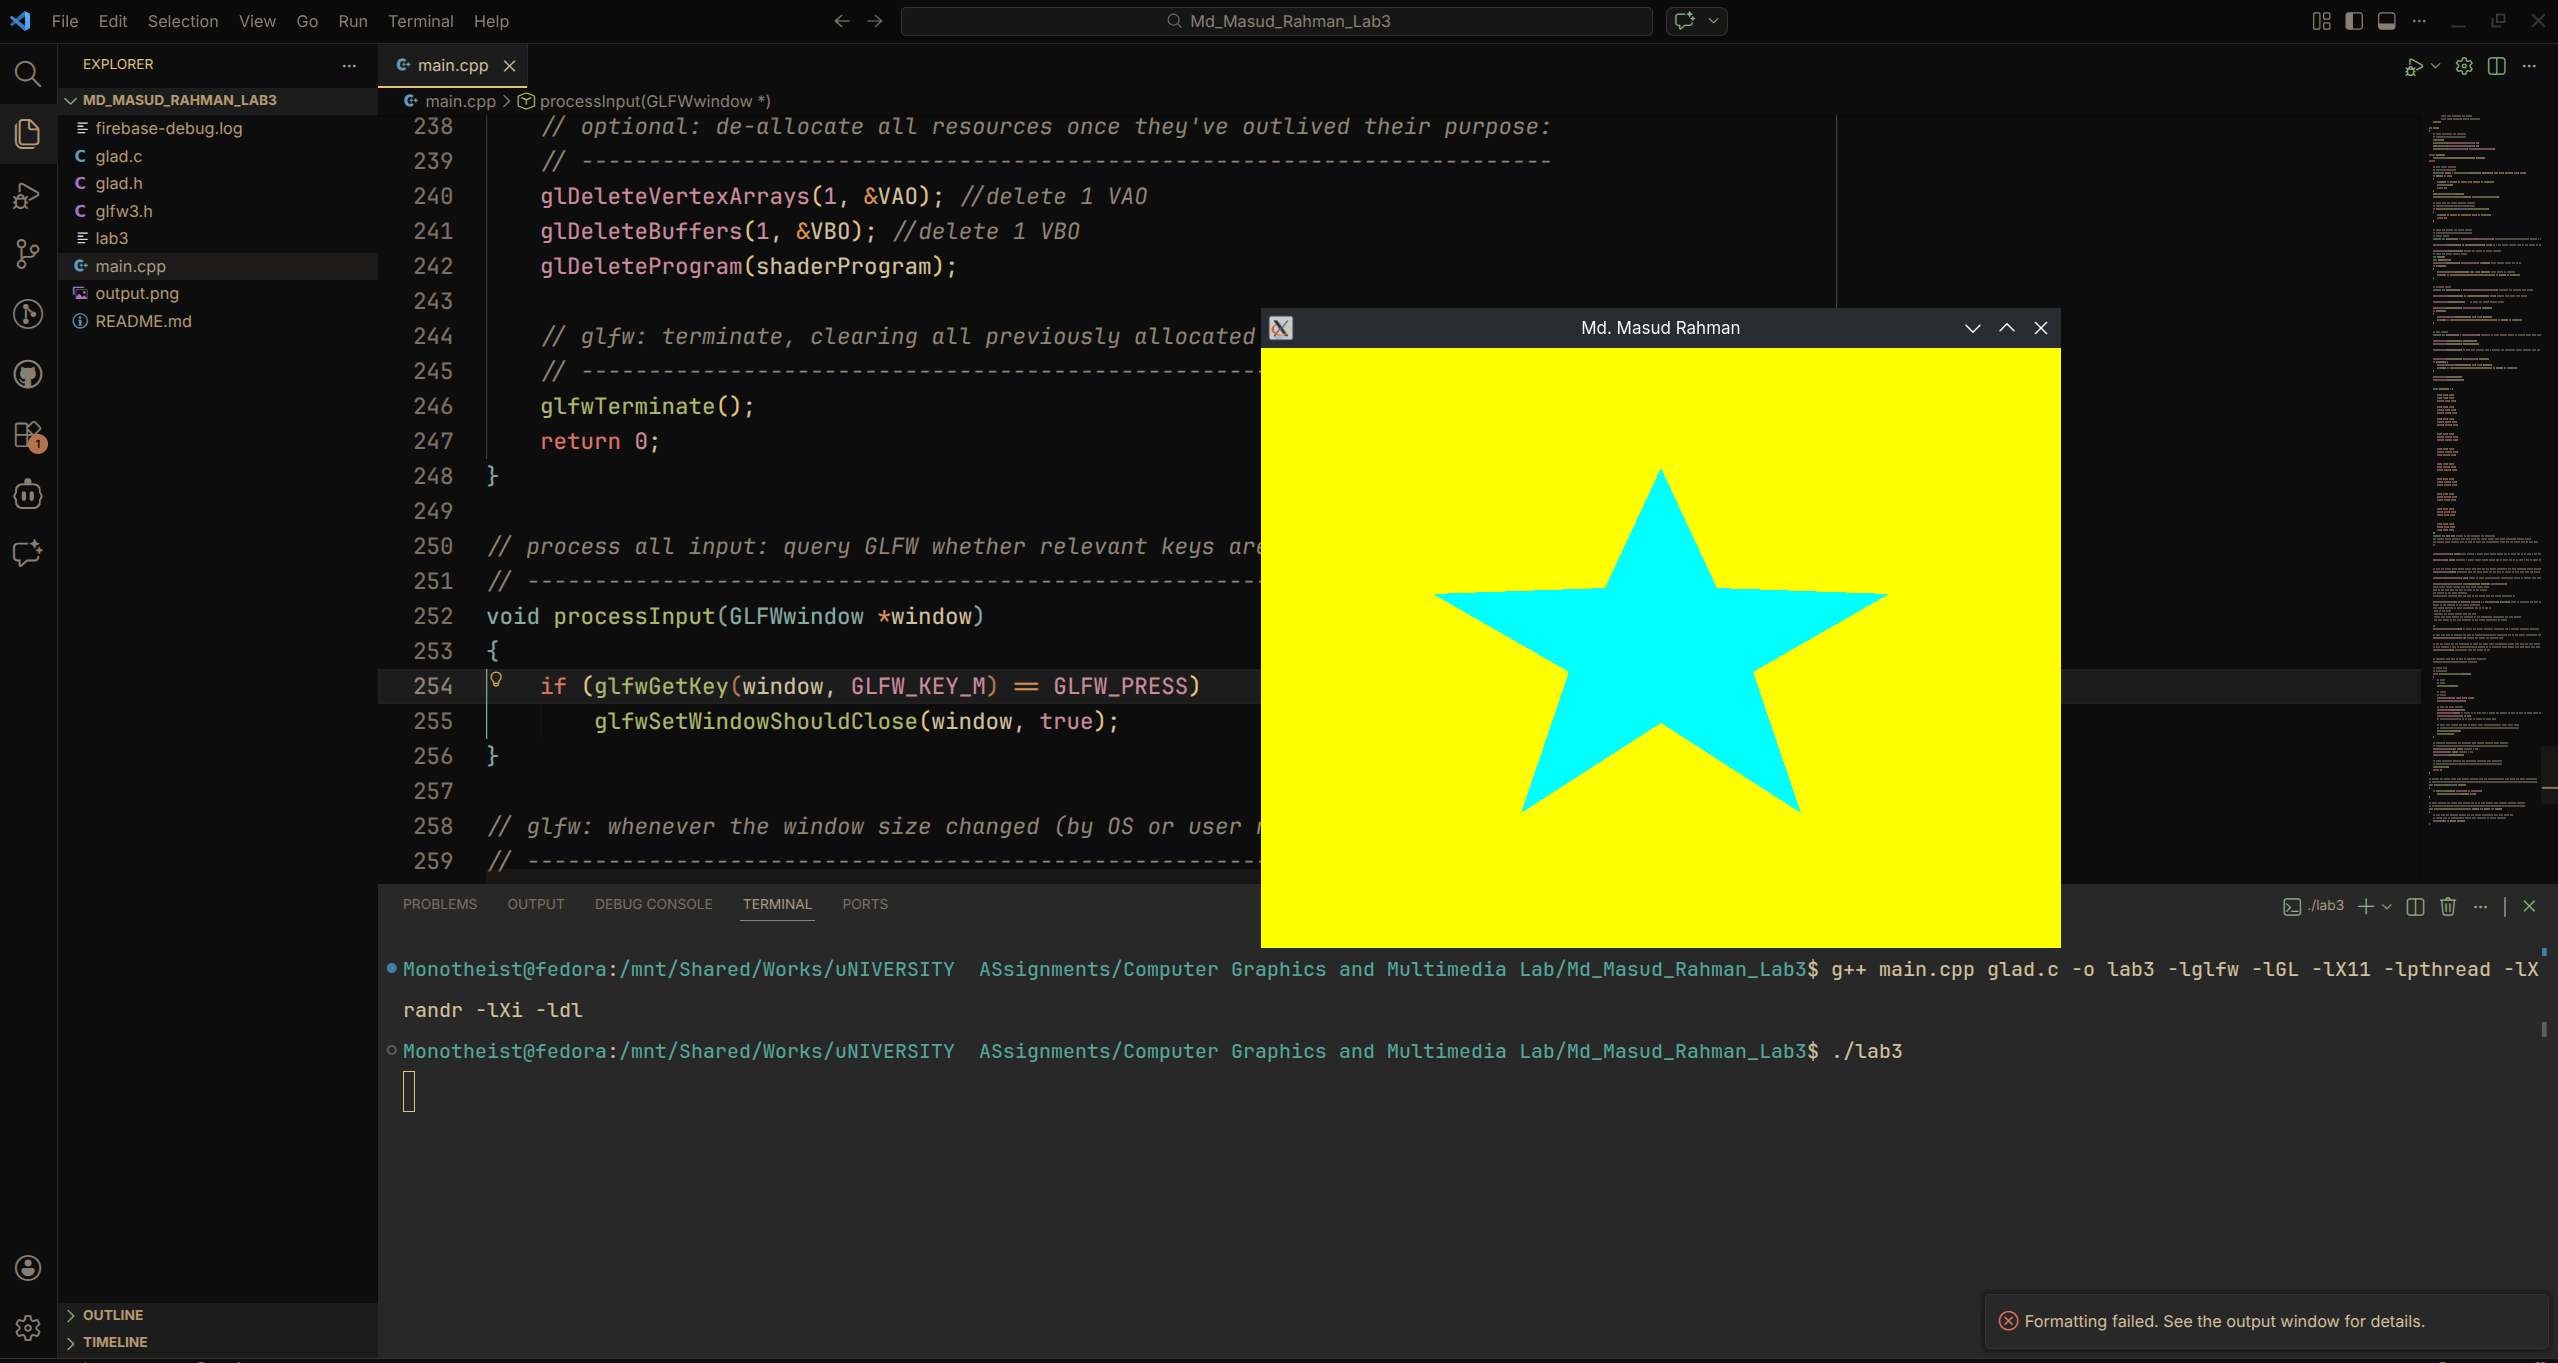
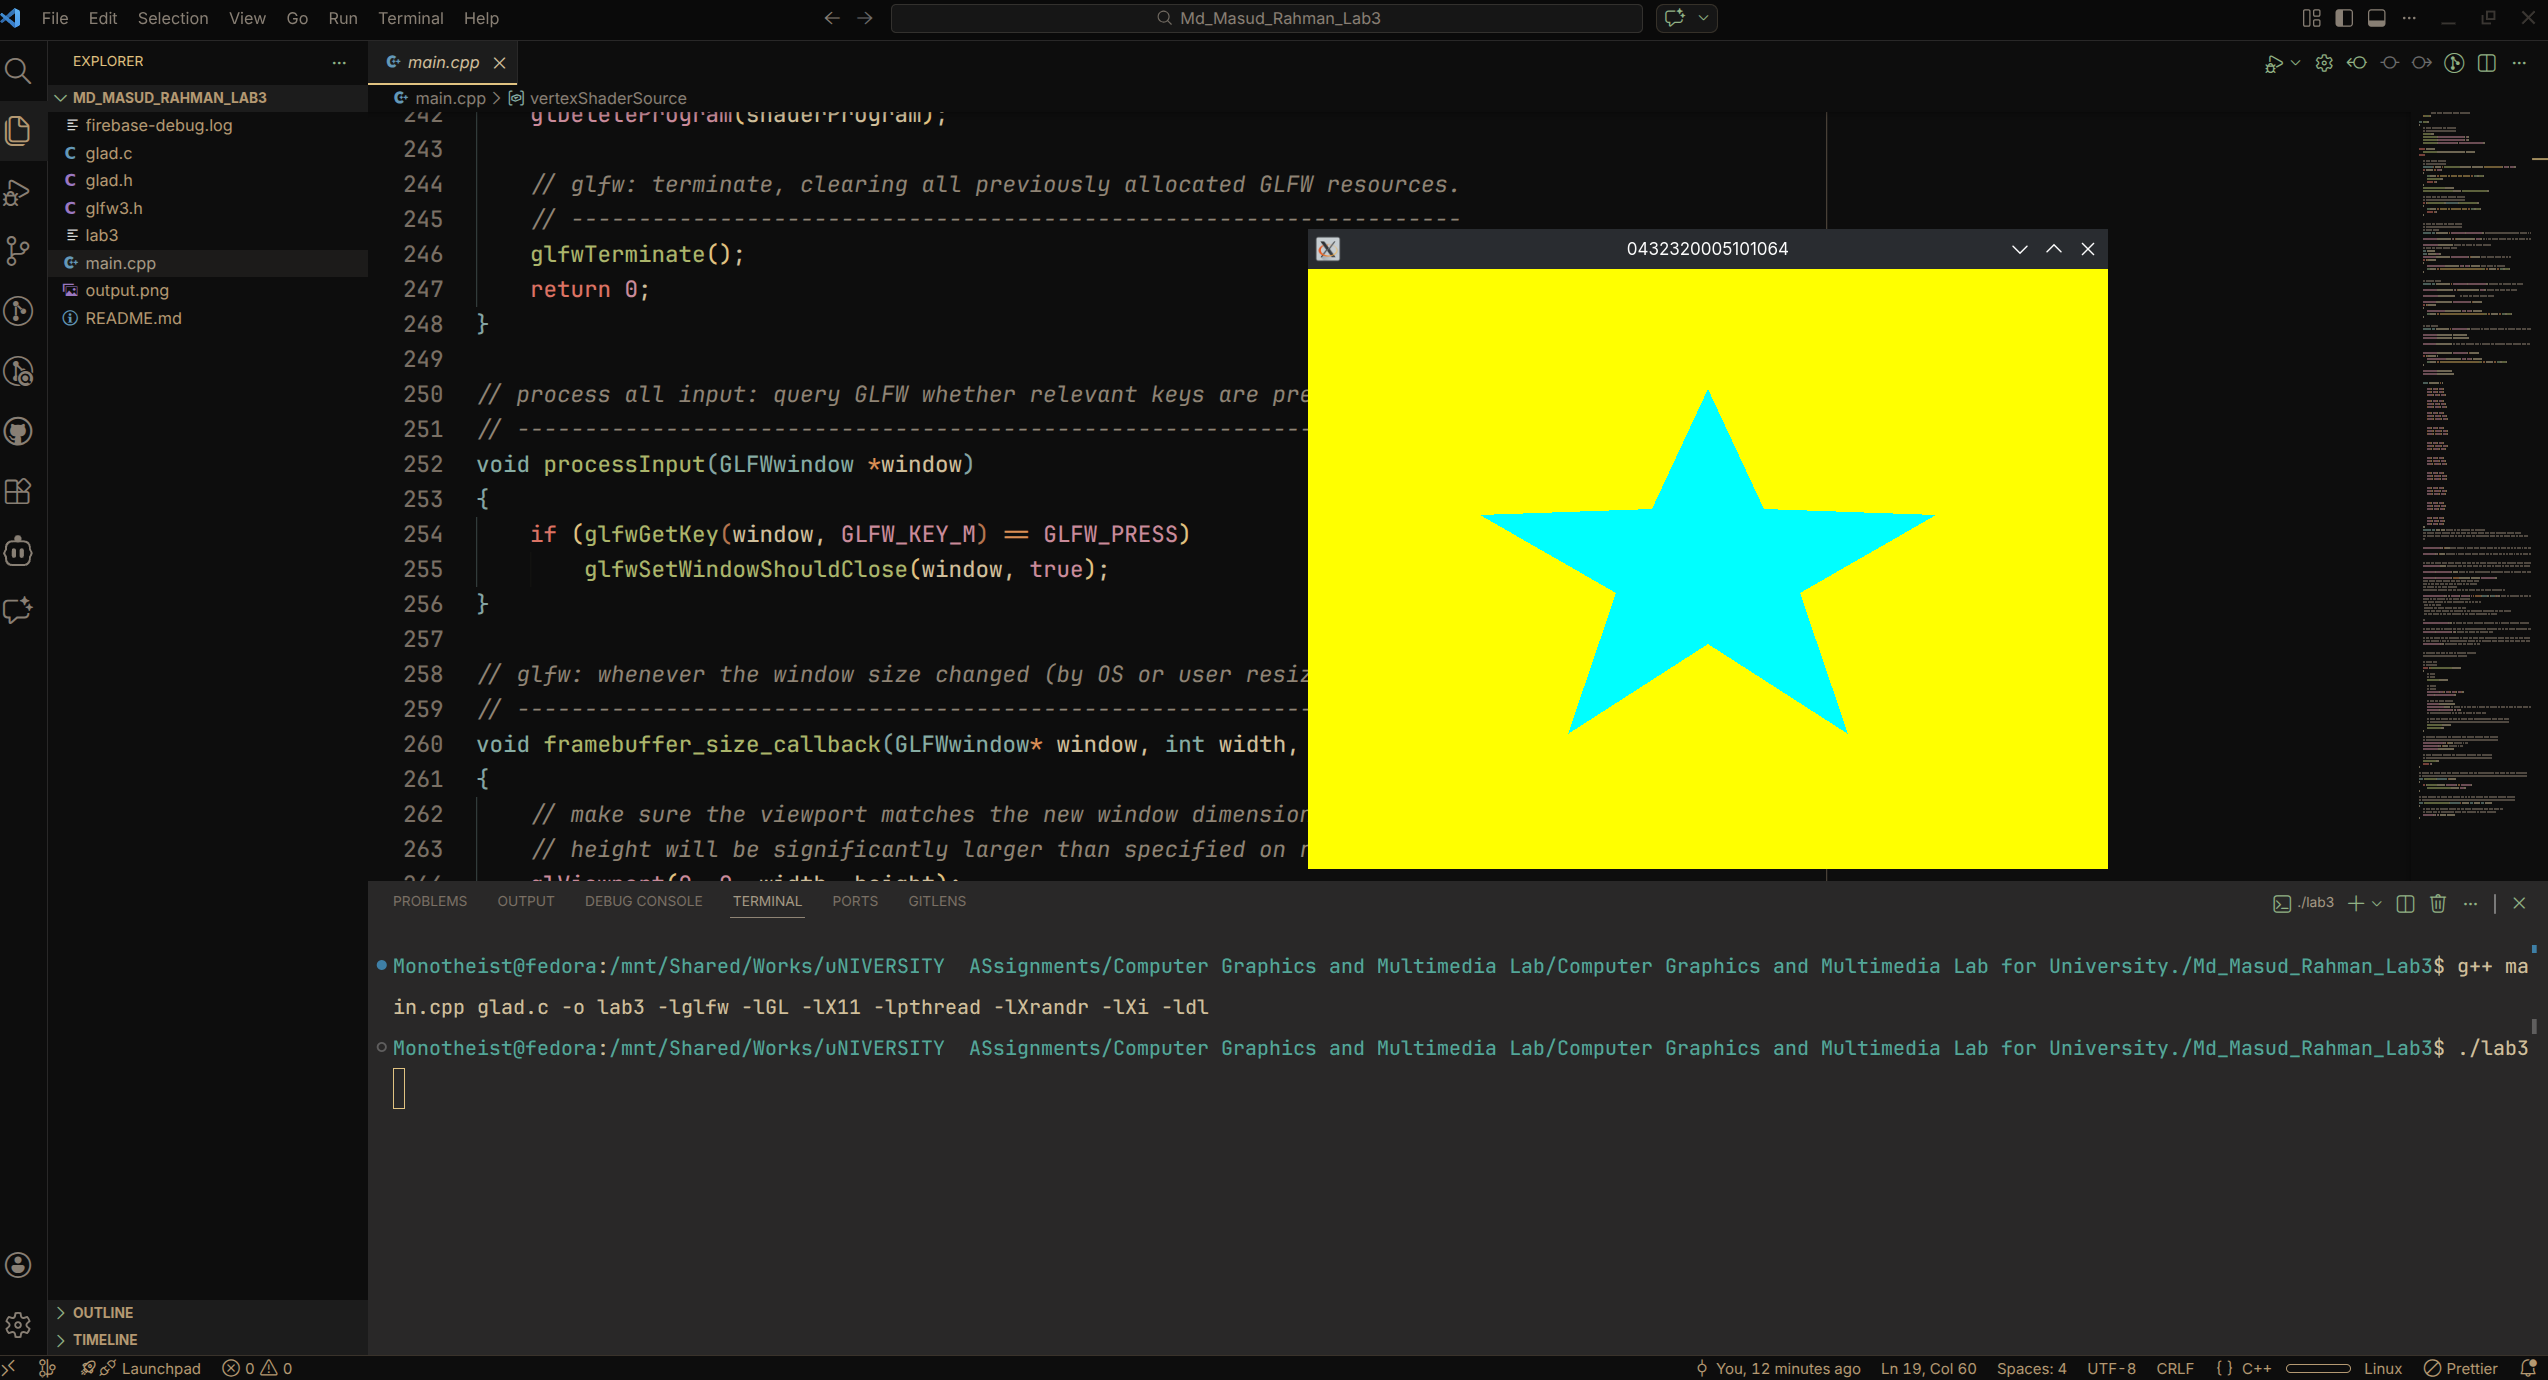
changed the window name to id

diff --git a/Md_Masud_Rahman_Lab3/main.cpp b/Md_Masud_Rahman_Lab3/main.cpp
@@ -45,7 +45,7 @@ int main()
 
     // glfw window creation
     // --------------------
-    GLFWwindow* window = glfwCreateWindow(SCR_WIDTH, SCR_HEIGHT, "Md. Masud Rahman", NULL, NULL);
+    GLFWwindow* window = glfwCreateWindow(SCR_WIDTH, SCR_HEIGHT, "0432320005101064", NULL, NULL);
     if (window == NULL)
     {
         std::cout << "Failed to create GLFW window" << std::endl;
